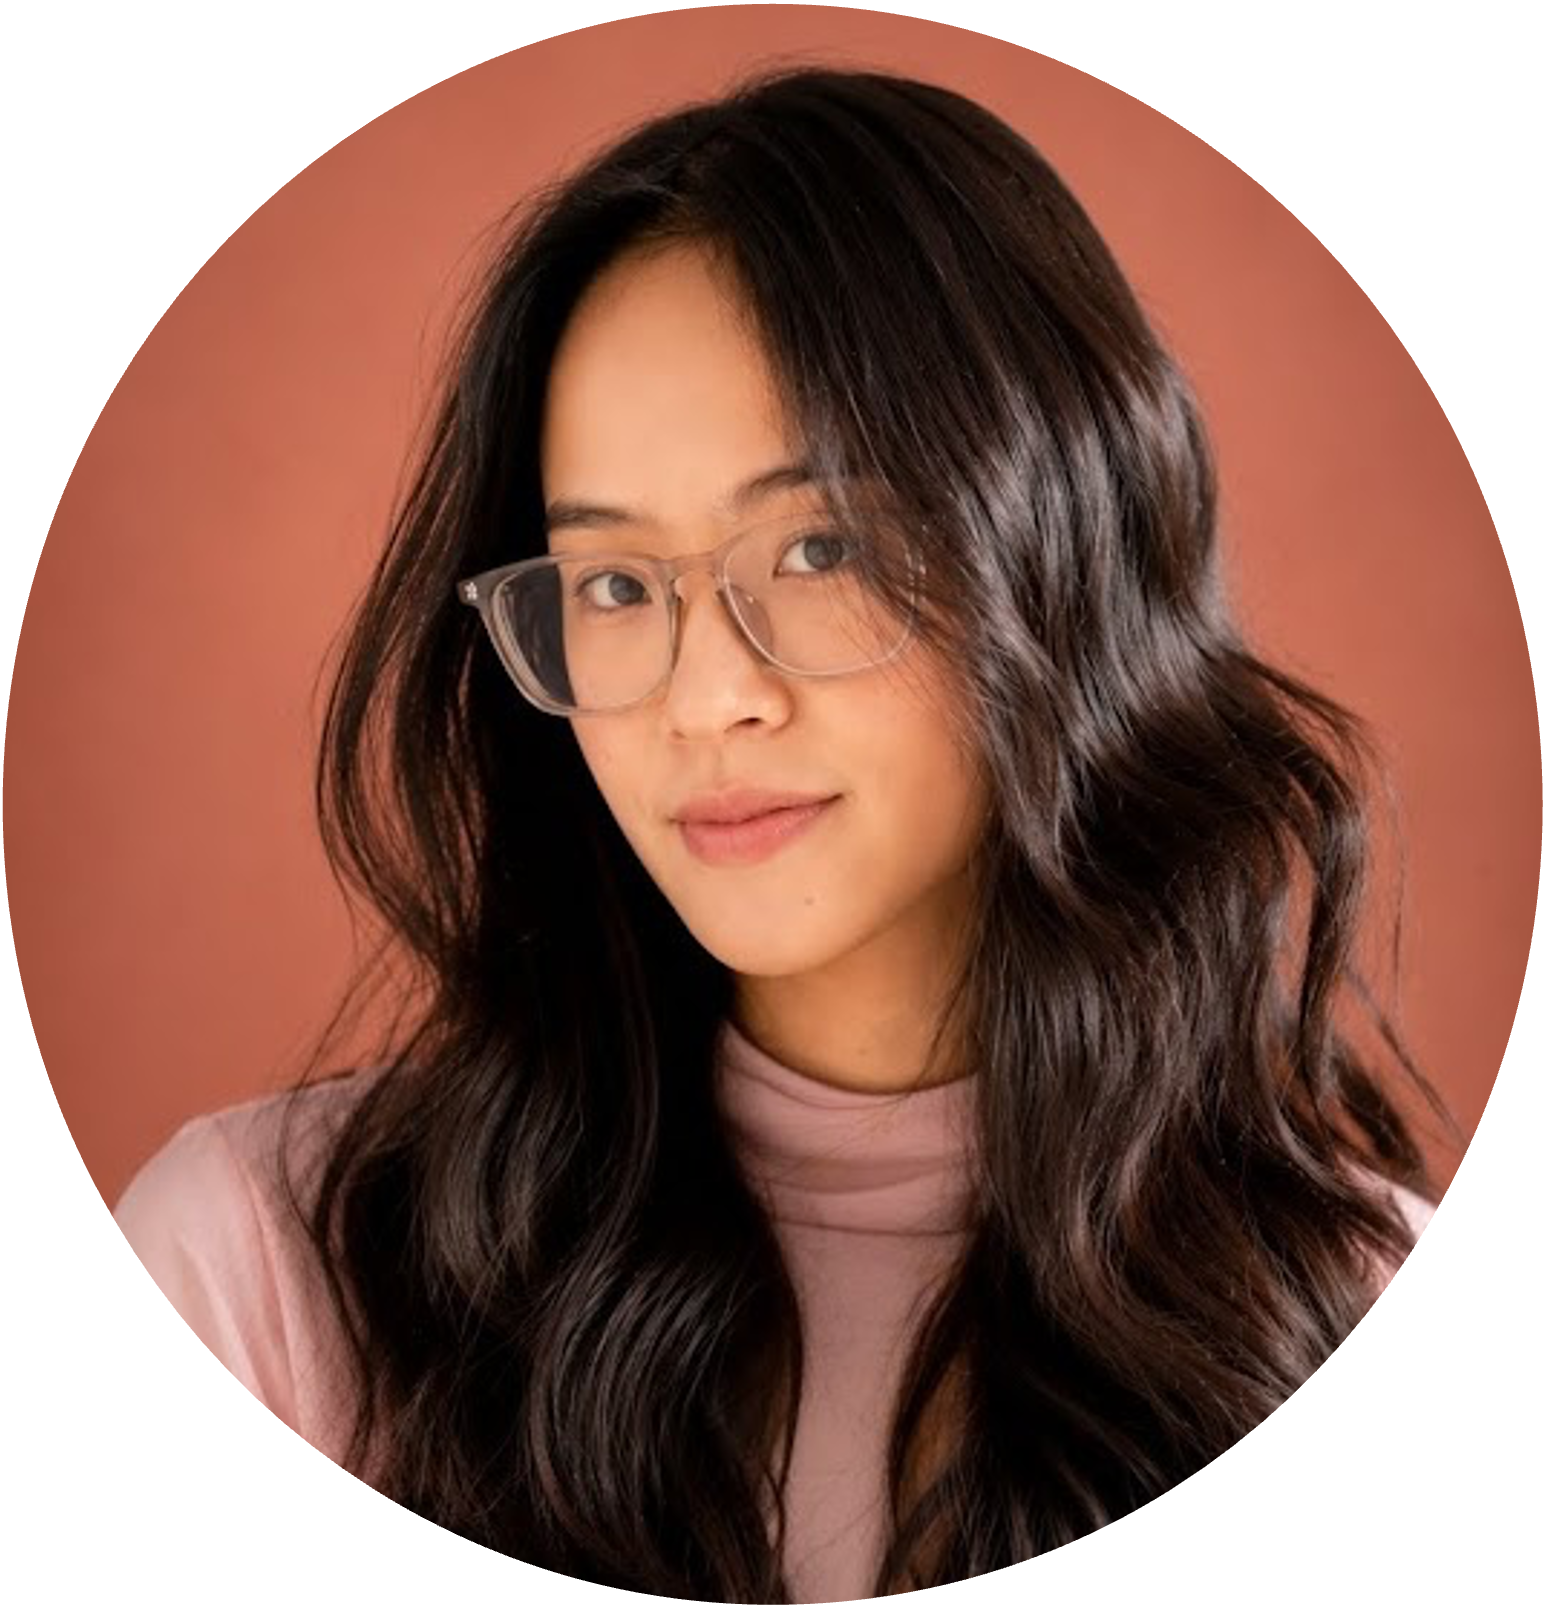
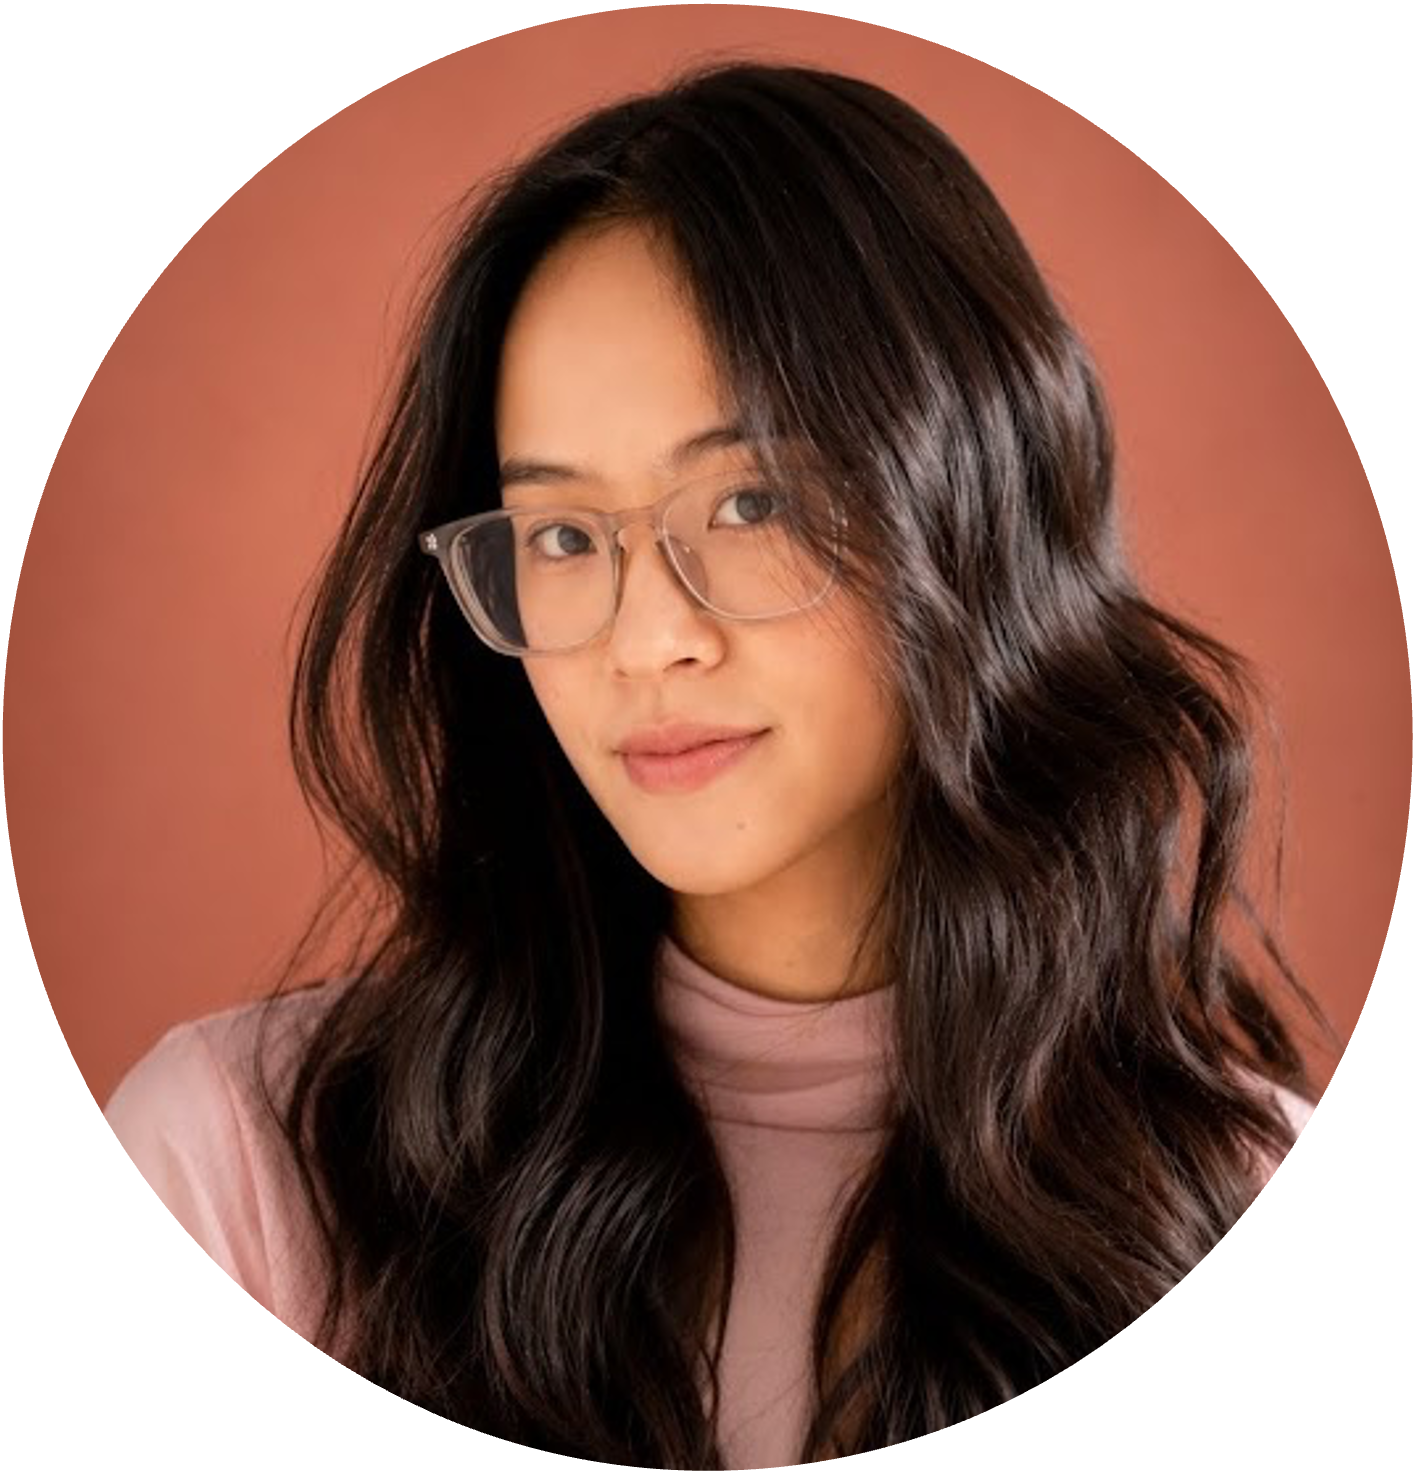
chore: update files [skip ci]

diff --git a/pages/blog.js b/pages/blog.js
@@ -36,6 +36,16 @@ const Blog = ({ banner, posts, recent_posts, promotion }) => {
 
     const author = post.frontmatter.author || meta_author;
     const href = `/${blog_folder}/${post.slug}`;
+    const titleHref = post.frontmatter.project_link || href;
+    const isExternalTitle = Boolean(post.frontmatter.project_link);
+    const TitleLink = ({ children }) =>
+      isExternalTitle ? (
+        <a href={titleHref} target="_blank" rel="noopener noreferrer">
+          {children}
+        </a>
+      ) : (
+        <Link href={titleHref}>{children}</Link>
+      );
 
     return (
       <article
@@ -81,11 +91,11 @@ const Blog = ({ banner, posts, recent_posts, promotion }) => {
           }}
         >
           <h3 style={{ fontSize: "1.5rem", fontWeight: 300, margin: "0 0 0.6rem", lineHeight: 1.2 }}>
-            <Link href={href}>
+            <TitleLink>
               <span className="cursor-pointer transition hover:text-primary">
                 {post.frontmatter.title}
               </span>
-            </Link>
+            </TitleLink>
           </h3>
 
           <div

diff --git a/pages/index.js b/pages/index.js
@@ -71,7 +71,7 @@ const Home = ({ banner, posts, main_section, skills_section,  experience, projec
               <div className="col-10 mb-8 mx-auto flex justify-center lg:col-5 lg:ml-auto lg:mr-0">
                 <ImageFallback
                   className="mx-auto  justify-center object-contain"
-                  src={banner.image}
+                  src="/images/banner-photo-final.png"
                   width={400}
                   height={500}
                   priority
